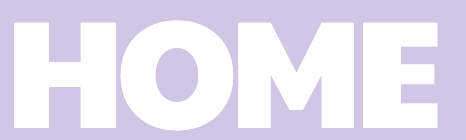
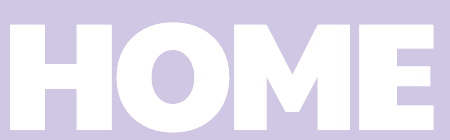
fixed hover image change for left header

diff --git a/src/Header/LeftHeader/LeftHeader.js b/src/Header/LeftHeader/LeftHeader.js
@@ -1,6 +1,7 @@
 import React from "react";
 import "./LeftHeader.css";
-import logo from "./pseudio.png";
+import logo from "./logo.png";
+import logo2 from './logo2.png'
 import homePic1 from "./Home.png";
 import home2 from './Home2.png'
 import productPic1 from "./Products.png";
@@ -12,52 +13,53 @@ import about2 from './About2.png'
 import {useState} from "react"
 
 function Header(props) {
+  const [logoPic, setLogoPic] = useState(logo);
   const [discountPic, setDiscountPic] = useState(discPic);
   const [productPic, setProductPic] = useState(productPic1);
   const [homePic, setHomePic] = useState(homePic1);
   const [aboutPic, setAboutPic] = useState(about);
   let myBool = false;
 
+  const mouseEnter9 = () => {
+    setLogoPic(logo2);
+  };
+  const mouseLeave9 = () => {
+    setLogoPic(logo);
+  };
+
   const mouseEnter1 = () => {
     setHomePic(home2);
-
   };
-
   const mouseLeave1 = () => {
     setHomePic(homePic1);
-
   };
+
   const mouseEnter2 = () => {
     setProductPic(product2);
-
   };
-
   const mouseLeave2 = () => {
     setProductPic(productPic1);
-
   };
+
   const mouseEnter3 = () => {
     setDiscountPic(discount2);
-
   };
-
   const mouseLeave3 = () => {
     setDiscountPic(discPic);
-
   };
+
   const mouseEnter4 = () => {
     setAboutPic(about2);
   };
-
   const mouseLeave4 = () => {
     setAboutPic(about);
-
   };
+
   return (
     <>
       <div className="mainLeft">
  
-          <img className="mlImage" src={logo} alt="" />
+          <img className="mlImage" src={logoPic} alt="" onMouseEnter={mouseEnter9} onMouseLeave={mouseLeave9} />
   
           <img className="mlImage2 adjPic" src={homePic} alt="" onMouseEnter={mouseEnter1} onMouseLeave={mouseLeave1} />
      

diff --git a/src/Header/LeftHeader/LeftHeader.css b/src/Header/LeftHeader/LeftHeader.css
@@ -17,6 +17,11 @@
     transition: all .2s ease-in-out;
 }
 
+
+.mlImage:hover{
+    cursor: pointer;
+}
+
 .mlImage2{
     height: 20px;
     transition: all .2s ease-in-out;
